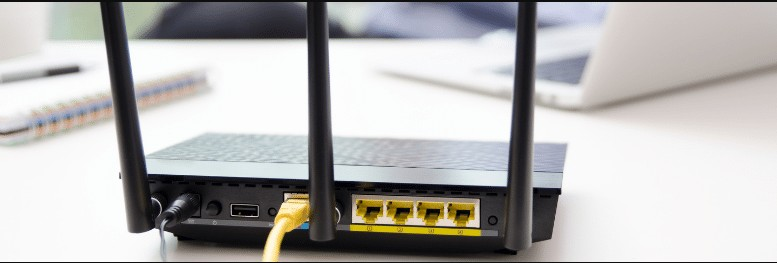
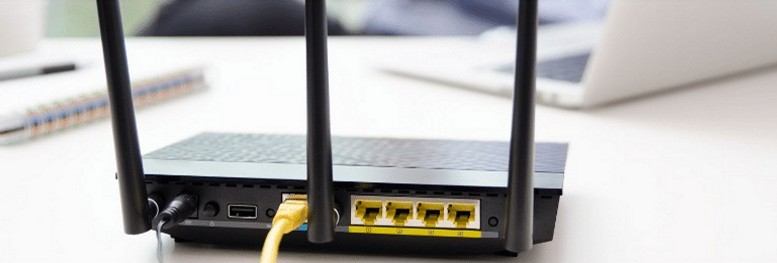
feat: commit at 4am

diff --git a/monochrome_page/pages/monochrome_internet_packages.html b/monochrome_page/pages/monochrome_internet_packages.html
@@ -42,12 +42,12 @@
     <main class="main">
 
         <section class="image-herf">
-            <div class="herf-info">
+            <div class="herf-info" id="internet">
             <h1 class="herf-title">Απεριόριστη δύναμη επικοινωνίας <br>με ταχύτητες έως 2 Gbps</h1>
             <p class="herf-text">στο πιο εξελιγμένο δίκτυο δίκτυο οπτικών ινών της χώρας.</p>
             </div>
 
-            <img class="fiber-image" src="../assets/images/flat.jpg" alt="fiber image">
+            <img class="fiber-image" src="../assets/images/routed.jpg" alt="fiber image">
         </section>
 
 

diff --git a/monochrome_page/pages/monochrome_mobile_packages.html b/monochrome_page/pages/monochrome_mobile_packages.html
@@ -47,7 +47,7 @@
             <p class="herf-text">στο πιο εξελιγμένο δίκτυο δίκτυο της χώρας.</p>
             </div>
 
-            <img class="fiber-image"  src="../assets/images/pexels-phoned.jpg" alt="fiber image">
+            <img class="fiber-image"  src="../assets/images/r" alt="fiber image">
         </section>
 
 

diff --git a/monochrome_page/styles/monochrome_style_packages.css b/monochrome_page/styles/monochrome_style_packages.css
@@ -58,6 +58,14 @@ body{
   left: 57vw;  
 }
 
+.herf-info#internet{
+  top: 25vh;
+  left: 50vw ;
+  transform: translate(-50%, -50%) ;
+  text-align: center ;
+  width: 80%;
+}
+
 .fiber-image{
   width: 100%;
   max-height: 70vh;
